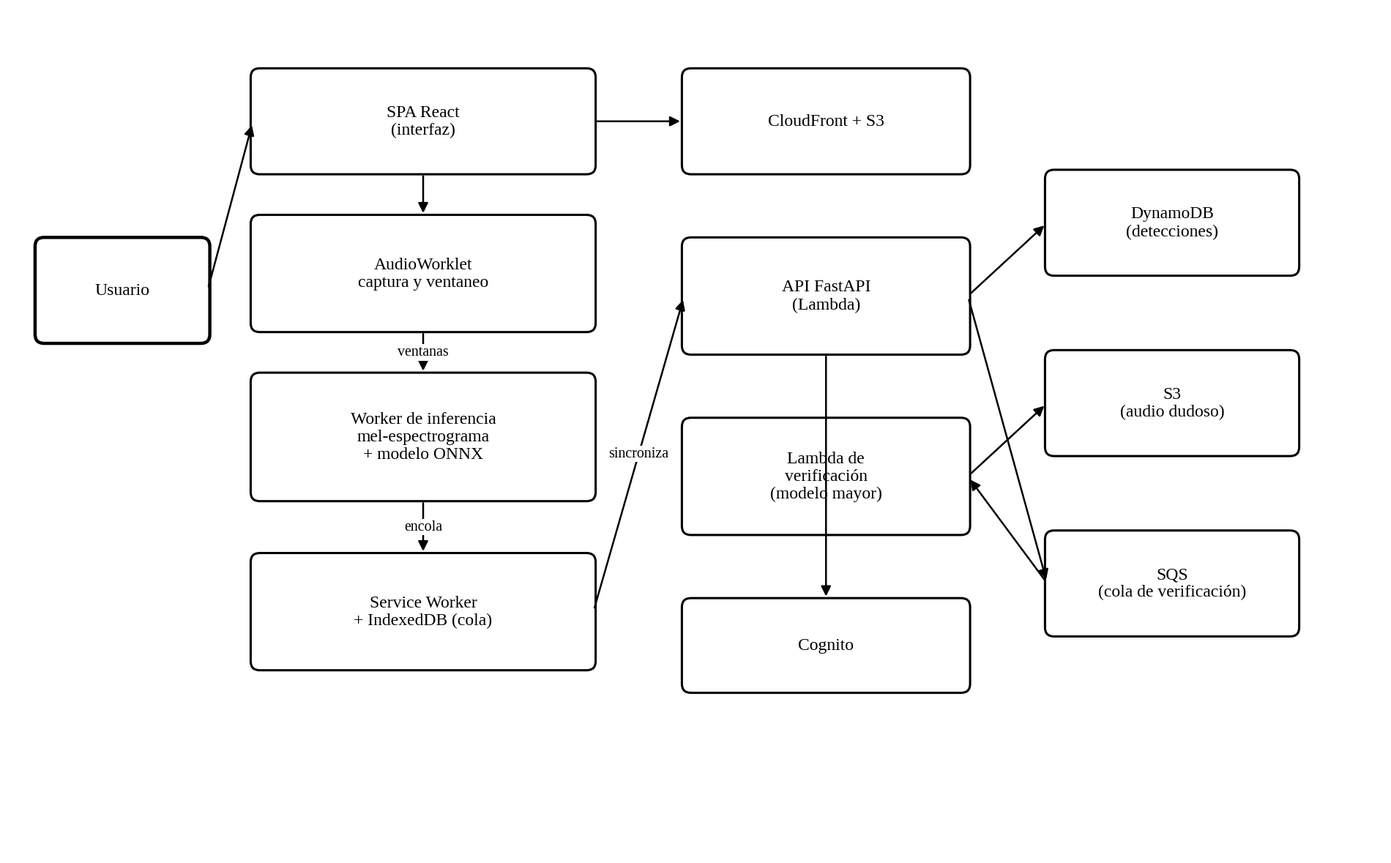
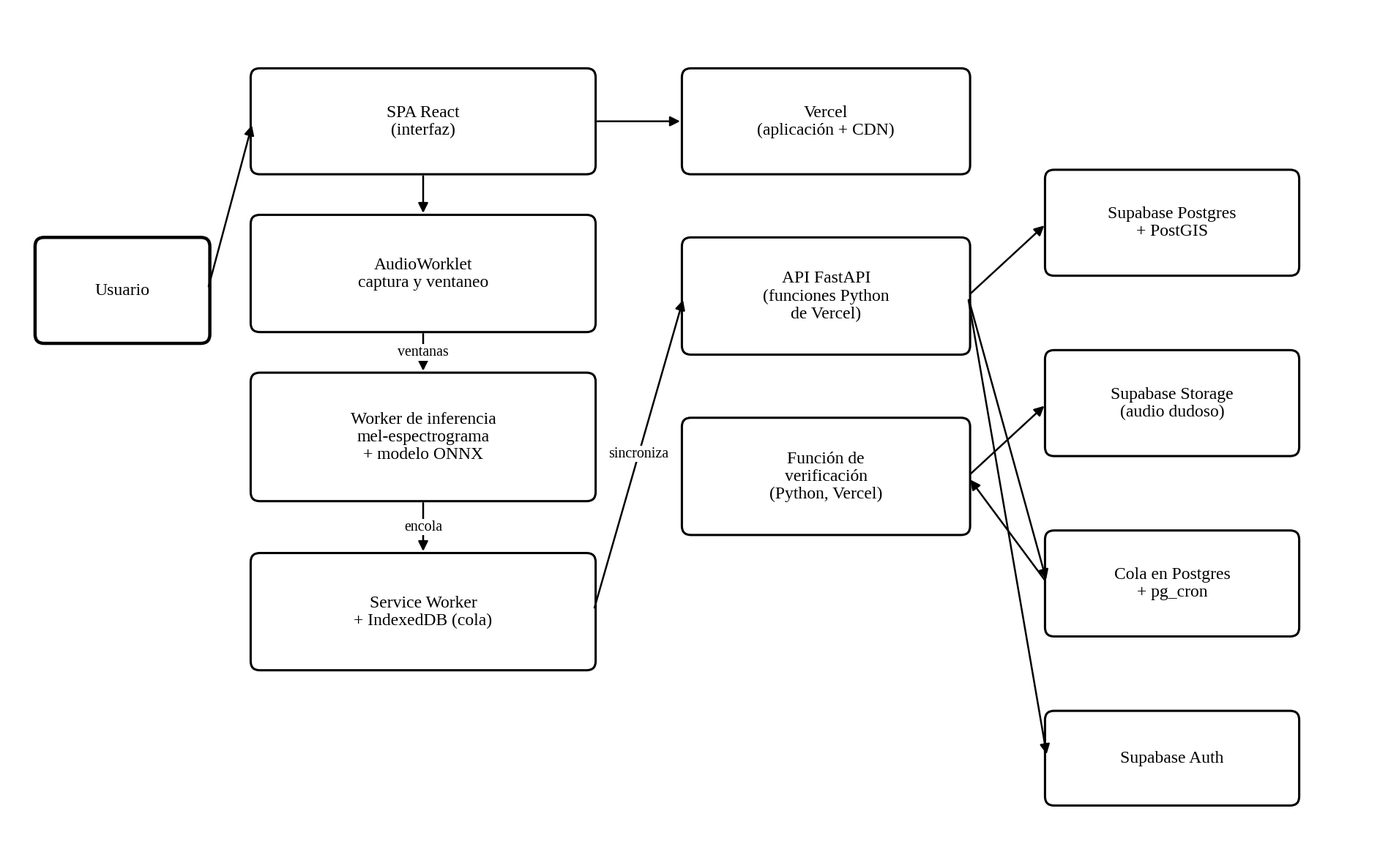
docs: actualizar definicion tecnica del proyecto e ignorados

diff --git a/docs/definicion-proyecto.md b/docs/definicion-proyecto.md
@@ -46,7 +46,7 @@ Diseñar y construir una aplicación web progresiva que identifique especies de 
 
 - Optimizar el consumo energético y de memoria hasta permitir sesiones de al menos una hora de escucha continua en un dispositivo de gama media.
 
-- Desplegar la solución sobre infraestructura sin servidor en AWS y verificar el cumplimiento de los requisitos no funcionales mediante pruebas automatizadas.
+- Desplegar la solución sobre plataformas con plan gratuito (Vercel y Supabase), manteniéndola portable a AWS, y verificar el cumplimiento de los requisitos no funcionales mediante pruebas automatizadas.
 
 # **Alcance y delimitación**
 
@@ -147,7 +147,7 @@ Dos exclusiones merecen justificación. La primera es el entrenamiento del model
 | RNF-09 | Precisión declarada         | Toda detección se acompaña de su confianza; ninguna se presenta como certeza.                         |
 | RNF-10 | Accesibilidad               | Nivel AA de las WCAG 2.1, con interfaz utilizable a plena luz solar y con una sola mano.              |
 | RNF-11 | Compatibilidad              | Chrome y Edge en Android y escritorio; Safari en iOS con las limitaciones documentadas.               |
-| RNF-12 | Costo                       | Menos de cinco dólares mensuales en condiciones académicas.                                           |
+| RNF-12 | Costo                       | Cero dólares, usando solo planes gratuitos que no exigen tarjeta de crédito.                          |
 
 # **Arquitectura de la solución**
 
@@ -183,16 +183,16 @@ La ventaja de este esquema es doble. Por un lado, el volumen de datos transmitid
 
 *Responsabilidad de cada contenedor*
 
-| **Contenedor**             | **Responsabilidad**                                                | **Tecnología**                              |
-|----------------------------|--------------------------------------------------------------------|---------------------------------------------|
-| Aplicación de página única | Interfaz, mapa y coordinación de la sesión de escucha.             | React 19, TypeScript, Vite, MapLibre        |
-| Captura de audio           | Segmentar la señal en ventanas y entregarlas sin pérdidas.         | AudioWorklet, Web Audio API                 |
-| Hilo de inferencia         | Calcular el mel-espectrograma y ejecutar el modelo.                | Web Worker, ONNX Runtime Web, WebGPU o WASM |
-| Trabajador de servicio     | Funcionamiento sin conexión, cola y sincronización diferida.       | Workbox, IndexedDB, Background Sync         |
-| Interfaz de programación   | Recibir detecciones, servir consultas y coordinar la verificación. | FastAPI sobre AWS Lambda                    |
-| Servicio de verificación   | Ejecutar el modelo mayor sobre el audio dudoso.                    | AWS Lambda con contenedor y SQS             |
-| Almacén de detecciones     | Persistir las detecciones y su estado de verificación.             | Amazon DynamoDB                             |
-| Almacén de audio           | Conservar temporalmente los fragmentos pendientes de verificar.    | Amazon S3 con expiración automática         |
+| **Contenedor**             | **Responsabilidad**                                                | **Tecnología**                                         |
+|----------------------------|--------------------------------------------------------------------|--------------------------------------------------------|
+| Aplicación de página única | Interfaz, mapa y coordinación de la sesión de escucha.             | React 19, TypeScript, Vite, MapLibre                   |
+| Captura de audio           | Segmentar la señal en ventanas y entregarlas sin pérdidas.         | AudioWorklet, Web Audio API                            |
+| Hilo de inferencia         | Calcular el mel-espectrograma y ejecutar el modelo.                | Web Worker, ONNX Runtime Web, WebGPU o WASM            |
+| Trabajador de servicio     | Funcionamiento sin conexión, cola y sincronización diferida.       | Workbox, IndexedDB, Background Sync                    |
+| Interfaz de programación   | Recibir detecciones, servir consultas y coordinar la verificación. | FastAPI en funciones Python de Vercel                  |
+| Servicio de verificación   | Ejecutar el modelo mayor sobre el audio dudoso.                    | Función Python de Vercel, cola en PostgreSQL y pg_cron |
+| Almacén de detecciones     | Persistir las detecciones y su estado de verificación.             | Supabase PostgreSQL con PostGIS                        |
+| Almacén de audio           | Conservar temporalmente los fragmentos pendientes de verificar.    | Supabase Storage con limpieza programada               |
 
 ## **Cadena de procesamiento y política de decisión**
 
@@ -277,13 +277,24 @@ Conviene subrayar una consecuencia de esta política que no es evidente a primer
 | Alternativas  | Empaquetar el modelo dentro del paquete de la aplicación.                                                                                                                             |
 | Consecuencias | El modelo se actualiza sin redesplegar el cliente y la primera carga es más ligera. Se debe gestionar, en contrapartida, la compatibilidad entre versiones de modelo y de aplicación. |
 
+**Tabla 13**
+
+*ADR-06. Desplegar sobre plataformas gratuitas con portabilidad a AWS*
+
+| **Campo**     | **Contenido**                                                                                                                                                                                                                                                               |
+|---------------|-----------------------------------------------------------------------------------------------------------------------------------------------------------------------------------------------------------------------------------------------------------------------------|
+| Contexto      | El proyecto es académico, con tráfico intermitente y sin presupuesto; no es posible registrar un medio de pago.                                                                                                                                                             |
+| Decisión      | Aplicación y API en Vercel; identidad, base de datos PostgreSQL y archivos en Supabase. El diseño se mantiene portable a AWS.                                                                                                                                               |
+| Alternativas  | Arquitectura sin servidor en AWS; servidor propio con contenedores.                                                                                                                                                                                                         |
+| Consecuencias | Costo cero y sin servidores que administrar. A cambio se aceptan los límites de los planes gratuitos —pausa por inactividad, tamaño de base de datos, cuerpo máximo de 4,5 MB— y el riesgo de que sus condiciones cambien, mitigado con la equivalencia documentada en AWS. |
+
 # **Modelo de concurrencia y rendimiento**
 
 El reto de concurrencia de este proyecto es distinto al de los anteriores: aquí no se trata de una única tarea pesada ocasional, sino de un **flujo sostenido de trabajo periódico** que debe mantenerse durante una hora sin perder una sola ventana de audio y sin agotar la batería.
 
 ## **Distribución del trabajo entre contextos de ejecución**
 
-**Tabla 13**
+**Tabla 14**
 
 *Asignación de cada tarea a su contexto de ejecución*
 
@@ -323,7 +334,9 @@ La restricción regional del catálogo merece un comentario, pues no es un simpl
 
 ## **Modelo de verificación en la nube**
 
-Las detecciones de confianza intermedia se procesan con la versión del modelo en precisión completa, ejecutada en una función Lambda empaquetada como contenedor y alimentada por una cola de mensajes. El procesamiento por lotes resulta aquí apropiado, dado que la verificación es diferida por naturaleza y no requiere respuesta inmediata.
+Las detecciones de confianza intermedia se procesan con la versión del modelo en precisión completa, ejecutada con ONNX Runtime sobre procesador en una función Python de Vercel. El plan gratuito ofrece hasta 2 GB de memoria y cinco minutos por invocación, suficientes para un modelo de este tamaño si los trabajos se procesan en lotes pequeños. El procesamiento diferido resulta apropiado, dado que la verificación no requiere respuesta inmediata.
+
+Se consideró alojar este modelo en un espacio de Hugging Face, pero entre julio y agosto de 2026 esa plataforma dejó de ofrecer gratuitamente los espacios con contenedores a cuentas nuevas, por lo que se descartó.
 
 ## **Modelo de lenguaje**
 
@@ -333,82 +346,130 @@ Rigen dos restricciones. El modelo **no identifica especies**: jamás recibe aud
 
 # **Modelo de datos y diseño de la interfaz de programación**
 
-**Tabla 14**
-
-*Diseño de claves de la tabla única*
-
-| **Entidad**           | **Clave de partición** | **Clave de ordenación** | **Atributos principales**                               |
-|-----------------------|------------------------|-------------------------|---------------------------------------------------------|
-| Usuario               | USER#\<id\>            | PROFILE                 | alias, preferencias, región                             |
-| Detección             | GEO#\<celda\>          | TS#\<marca\>#\<ulid\>   | especie, confianza, estado, versión del modelo, usuario |
-| Detección por usuario | USER#\<id\>            | DET#\<marca\>           | referencia a la detección                               |
-| Sitio                 | USER#\<id\>            | SITE#\<id\>             | nombre, celda geográfica, fecha de creación             |
-| Resumen de sitio      | SITE#\<id\>            | STAT#\<mes\>            | especies distintas, conteos, índice de variación        |
-| Versión de modelo     | MODEL                  | VER#\<n\>               | ruta, tamaño, umbrales, métricas                        |
-
-*Nota.* La celda geográfica como clave de partición permite consultar de forma eficiente todas las detecciones de una zona, que es el patrón de acceso dominante del mapa.
+Los datos se guardan en PostgreSQL, provisto por Supabase, con la extensión PostGIS para datos geográficos. PostGIS permite guardar la ubicación como un punto y consultar con un índice espacial todas las detecciones dentro del área visible del mapa, que es el patrón de acceso dominante del sistema.
 
 **Tabla 15**
 
-*Puntos de acceso principales de la interfaz*
+*Tablas principales de la base de datos*
 
-| **Método y ruta**              | **Propósito**                                          | **Autenticación** |
-|--------------------------------|--------------------------------------------------------|-------------------|
-| POST /v1/detections/batch      | Enviar un lote de detecciones desde la cola local      | Requerida         |
-| POST /v1/detections/{id}/audio | Subir el fragmento de audio para verificación          | Requerida         |
-| GET /v1/detections             | Consultar detecciones por zona, especie y periodo      | Requerida         |
-| PATCH /v1/detections/{id}      | Confirmar, corregir o descartar una detección          | Requerida         |
-| GET /v1/sites/{id}/stats       | Obtener las estadísticas de un sitio                   | Requerida         |
-| POST /v1/species/{id}/card     | Generar la ficha divulgativa de una especie            | Requerida         |
-| GET /v1/model/latest           | Consultar la versión vigente del modelo y sus umbrales | Pública           |
-| GET /v1/export                 | Exportar detecciones en CSV                            | Requerida         |
-| GET /v1/health                 | Verificar el estado del servicio                       | Pública           |
+| **Tabla**          | **Clave y relaciones**                        | **Columnas principales**                                                                              |
+|--------------------|-----------------------------------------------|-------------------------------------------------------------------------------------------------------|
+| profiles           | id (= usuario de Supabase Auth)               | alias, preferencias, región                                                                           |
+| sites              | id; owner_id → profiles                       | nombre, centro (punto geográfico), fecha de creación                                                  |
+| detections         | id generado en el cliente; user_id → profiles | especie, confianza, estado, momento, ubicación redondeada (punto), versión del modelo, ruta del audio |
+| verification_jobs  | detection_id → detections                     | estado del trabajo, intentos, último error, fecha de creación                                         |
+| site_stats_monthly | vista materializada por sitio y mes           | especies distintas, conteos, variación respecto del mes anterior                                      |
+| model_versions     | versión                                       | ruta en Storage, tamaño, umbrales, métricas                                                           |
 
-El punto de envío por lotes merece detalle por ser el más delicado del sistema. Recibe un conjunto de detecciones, cada una con el identificador único generado en el cliente, y responde indicando cuáles fueron aceptadas y cuáles ya existían. Esta respuesta permite al cliente vaciar su cola con seguridad: un envío repetido por un corte de red no genera duplicados, porque el servidor reconoce los identificadores ya registrados. Esta propiedad, la idempotencia, es la que hace posible reintentar sin miedo, y constituye el fundamento de toda sincronización fiable.
+*Nota.* La tabla detections tiene un índice espacial sobre la ubicación y un índice por especie y fecha. La vista materializada se recalcula cada noche con pg_cron.
 
-# **Infraestructura, despliegue y operación**
+El estado de una detección toma uno de cinco valores: confirmada por el modelo local, provisional, verificada en la nube, corregida por el usuario o descartada. La seguridad a nivel de fila permite a cualquier usuario autenticado leer las detecciones —el mapa es colectivo— pero solo modificar las propias.
 
 **Tabla 16**
 
-*Servicios de AWS empleados y su función*
+*Puntos de acceso principales de la interfaz*
 
-| **Servicio**          | **Función en el sistema**                                                        | **Consideración de costo**                                   |
-|-----------------------|----------------------------------------------------------------------------------|--------------------------------------------------------------|
-| S3                    | Alojar la aplicación, las versiones del modelo y el audio pendiente de verificar | Capa gratuita; expiración automática del audio a los 30 días |
-| CloudFront            | Distribuir la aplicación y el modelo desde el borde de la red                    | Capa gratuita de 1 TB                                        |
-| API Gateway           | Exponer la interfaz y limitar la tasa de peticiones                              | Por millón de peticiones                                     |
-| Lambda                | Ejecutar la interfaz FastAPI                                                     | Un millón de invocaciones sin costo                          |
-| Lambda con contenedor | Ejecutar el modelo de verificación por lotes                                     | Invocación solo ante detecciones dudosas                     |
-| SQS                   | Encolar las verificaciones pendientes y amortiguar los picos                     | Capa gratuita de 1 millón                                    |
-| DynamoDB              | Persistir detecciones, sitios y estadísticas                                     | Modo bajo demanda                                            |
-| Cognito               | Autenticar usuarios                                                              | Gratuito en el rango previsto                                |
-| CloudWatch            | Trazas, métricas y alarmas                                                       | Capa gratuita                                                |
+| **Método y ruta**                  | **Propósito**                                                      | **Autenticación** |
+|------------------------------------|--------------------------------------------------------------------|-------------------|
+| POST /v1/detections/batch          | Enviar un lote de detecciones desde la cola local                  | Requerida         |
+| POST /v1/detections/{id}/audio-url | Obtener una URL firmada para subir el audio directamente a Storage | Requerida         |
+| GET /v1/detections                 | Consultar detecciones por zona, especie y periodo                  | Requerida         |
+| PATCH /v1/detections/{id}          | Confirmar, corregir o descartar una detección                      | Requerida         |
+| GET /v1/sites/{id}/stats           | Obtener las estadísticas de un sitio                               | Requerida         |
+| POST /v1/species/{id}/card         | Generar la ficha divulgativa de una especie                        | Requerida         |
+| GET /v1/model/latest               | Consultar la versión vigente del modelo y sus umbrales             | Pública           |
+| GET /v1/export                     | Exportar detecciones en CSV                                        | Requerida         |
+| GET /v1/health                     | Verificar el estado del servicio                                   | Pública           |
 
-El uso de una cola entre la interfaz y el servicio de verificación no responde a un afán de sofisticación. Cumple una función concreta: cuando varios usuarios sincronizan a la vez tras una jornada de campo, la cola absorbe el pico y permite que la verificación se procese a su propio ritmo, sin que la interfaz de programación tenga que esperar ni el usuario perciba demora alguna. Es, además, el punto donde resulta natural aplicar reintentos y una cola de mensajes fallidos.
+El punto de envío por lotes merece detalle por ser el más delicado del sistema. Recibe un conjunto de detecciones, cada una con el identificador único generado en el cliente, y responde indicando cuáles fueron aceptadas y cuáles ya existían. Esta respuesta permite al cliente vaciar su cola con seguridad: un envío repetido por un corte de red no genera duplicados, porque la inserción usa la cláusula ON CONFLICT DO NOTHING de PostgreSQL sobre el identificador generado en el cliente. Esta propiedad, la idempotencia, es la que hace posible reintentar sin miedo, y constituye el fundamento de toda sincronización fiable.
+
+# **Infraestructura, despliegue y operación**
+
+## **Plataforma de despliegue**
+
+El sistema se despliega sobre plataformas con **plan gratuito que no exigen tarjeta de crédito**: Vercel para la aplicación y la API, y Supabase para identidad, base de datos y archivos. La elección es viable precisamente por la arquitectura adoptada: como el cómputo intensivo ocurre en el navegador, al servidor solo le quedan tareas ligeras —autenticar, guardar datos y llamar al modelo de lenguaje— que caben holgadamente en los límites de esos planes.
+
+**Tabla 17**
+
+*Servicios empleados en la opción gratuita*
+
+| **Servicio**                   | **Función en el sistema**                                                                                                                 | **Límite del plan gratuito**                                                |
+|--------------------------------|-------------------------------------------------------------------------------------------------------------------------------------------|-----------------------------------------------------------------------------|
+| Vercel (plan Hobby)            | Alojar la aplicación, distribuirla desde su red de entrega y aplicar las cabeceras de seguridad y de aislamiento definidas en vercel.json | Gratuito para uso no comercial                                              |
+| Funciones Python de Vercel     | Ejecutar la API FastAPI como funciones sin servidor                                                                                       | Incluidas en el plan gratuito; hasta 2 GB de memoria y 300 s por invocación |
+| Supabase Auth                  | Registro, inicio de sesión y emisión de credenciales JWT                                                                                  | Hasta 50.000 usuarios activos mensuales                                     |
+| Supabase PostgreSQL            | Persistir los datos con seguridad a nivel de fila                                                                                         | Hasta 500 MB de base de datos                                               |
+| Supabase Storage               | Guardar archivos: informes y demás objetos binarios                                                                                       | Hasta 1 GB de almacenamiento                                                |
+| Variables de entorno de Vercel | Custodiar la clave de Gemini y la clave de servicio de Supabase, cifradas y solo accesibles desde el servidor                             | Sin costo                                                                   |
+| GitHub Actions                 | Integración continua y tareas programadas de mantenimiento                                                                                | Gratuito en repositorios públicos; 2.000 minutos mensuales en privados      |
+| Registros de Vercel y Sentry   | Trazas, errores y alertas                                                                                                                 | Planes gratuitos                                                            |
+| Supabase Storage (audio)       | Guardar los fragmentos de audio dudosos hasta su verificación y las versiones del modelo                                                  | Incluido en 1 GB                                                            |
+| pg_cron y pg_net (Supabase)    | Invocar la verificación cada cinco minutos, recalcular estadísticas y borrar audio vencido                                                | Incluidos en el plan gratuito                                               |
+| PostGIS (Supabase)             | Guardar ubicaciones y consultarlas por área                                                                                               | Incluido                                                                    |
+
+*Nota.* Límites vigentes a septiembre de 2026. Los planes gratuitos cambian con frecuencia, por lo que deben revisarse al iniciar la construcción.
+
+Tres restricciones de estos planes condicionan el diseño y conviene tenerlas presentes desde ahora. La primera es que el plan Hobby de Vercel admite solo uso no comercial, condición que un proyecto académico cumple. La segunda es que una función de Vercel no acepta cuerpos de petición mayores de 4,5 MB, de modo que los archivos voluminosos no pasan por la API: el cliente los sube directamente a Supabase Storage mediante una URL firmada que la API emite. La tercera es que Supabase **pausa los proyectos gratuitos tras una semana sin actividad**; para evitar que el sistema amanezca detenido el día de la sustentación, un flujo programado de GitHub Actions realiza una consulta ligera cada tres días.
+
+## **Estrategia de despliegue**
+
+Vercel se integra directamente con el repositorio de GitHub. Cada propuesta de cambio genera automáticamente un **despliegue de vista previa** con su propia dirección, que cumple la función de entorno de preproducción, y cada integración a la rama principal se publica en producción. El esquema de la base de datos se versiona en el mismo repositorio como migraciones SQL gestionadas con la interfaz de línea de comandos de Supabase, y las cabeceras de seguridad se declaran en vercel.json. De este modo toda la configuración queda descrita en archivos versionados, que es el propósito de la infraestructura como código.
+
+El proceso de integración continua, implementado con GitHub Actions, ejecuta en cada propuesta de cambio la verificación de tipos, el análisis estático, las pruebas unitarias del cliente y del servidor, la construcción de la aplicación, las pruebas de extremo a extremo sobre el despliegue de vista previa y la auditoría de rendimiento y accesibilidad. Una propuesta que no supere todas las etapas no puede integrarse.
+
+La cola de verificación merece detalle porque sustituye a un servicio de colas dedicado sin perder sus propiedades. Al sincronizar, la API inserta un trabajo pendiente por cada detección dudosa. Cada cinco minutos, pg_cron invoca mediante pg_net la función de verificación, que toma hasta diez trabajos con la cláusula FOR UPDATE SKIP LOCKED: si dos invocaciones coinciden, cada una bloquea filas distintas y ningún trabajo se procesa dos veces. Un trabajo que falla incrementa su contador de intentos y, tras tres fallos, queda marcado para revisión en lugar de reintentarse indefinidamente. Se trata del mismo problema de concurrencia que resuelven los Workers en el navegador, ahora del lado del servidor.
+
+El audio se sube directamente desde el cliente a Supabase Storage mediante una URL firmada, lo que evita el límite de 4,5 MB de las funciones de Vercel. Una tarea nocturna de pg_cron borra los fragmentos verificados hace más de treinta días, manteniendo el almacenamiento dentro del gigabyte del plan gratuito.
+
+## **Alternativa de despliegue en AWS**
+
+El diseño se mantiene **portable a Amazon Web Services** sin reescribir la aplicación, gracias a tres decisiones. La API es una aplicación ASGI estándar, que se ejecuta igual en una función de Vercel que en AWS Lambda mediante un adaptador. La API valida las credenciales JWT contra el conjunto de claves públicas del proveedor de identidad, de modo que Supabase Auth y Cognito resultan intercambiables cambiando una variable de configuración. Y los datos viven en PostgreSQL en ambos casos, por lo que el esquema y las migraciones no cambian.
+
+**Tabla 18**
+
+*Equivalencia entre la opción gratuita y AWS*
+
+| **Función**                 | **Opción gratuita (principal)**       | **Equivalente en AWS**                           |
+|-----------------------------|---------------------------------------|--------------------------------------------------|
+| Aplicación y red de entrega | Vercel                                | S3 + CloudFront                                  |
+| API FastAPI                 | Funciones Python de Vercel            | Lambda + API Gateway, con el adaptador Mangum    |
+| Identidad                   | Supabase Auth                         | Amazon Cognito                                   |
+| Base de datos               | Supabase PostgreSQL                   | Amazon RDS for PostgreSQL (mismo esquema)        |
+| Archivos                    | Supabase Storage                      | Amazon S3                                        |
+| Secretos                    | Variables de entorno de Vercel        | AWS Secrets Manager                              |
+| Cabeceras de seguridad      | vercel.json                           | Política de cabeceras de respuesta de CloudFront |
+| Observabilidad              | Registros de Vercel y Sentry          | Amazon CloudWatch                                |
+| Cola de verificación        | Tabla verification_jobs en PostgreSQL | Amazon SQS                                       |
+| Tareas programadas          | pg_cron                               | Amazon EventBridge Scheduler                     |
+| Función de verificación     | Función Python de Vercel              | Lambda con imagen de contenedor                  |
+
+La única pieza que requiere adaptación son las políticas de seguridad a nivel de fila, que en Supabase leen el usuario desde la credencial de la petición: en RDS se reescriben para leerlo de una variable de sesión que la API fija al abrir cada transacción. Cabe advertir, por último, que una cuenta de AWS exige registrar una tarjeta aunque se use su plan gratuito con créditos iniciales; por ello la opción de Vercel y Supabase se mantiene como la principal.
 
 # **Seguridad, privacidad y consideraciones éticas**
 
 Un sistema que mantiene un micrófono abierto y registra ubicaciones plantea riesgos de privacidad que exigen un tratamiento explícito.
 
-**Tabla 17**
+**Tabla 19**
 
 *Medidas de seguridad y privacidad*
 
-| **Amenaza o riesgo**                                 | **Medida adoptada**                                                                                                                                                   |
-|------------------------------------------------------|-----------------------------------------------------------------------------------------------------------------------------------------------------------------------|
-| Captura involuntaria de conversaciones               | El audio se procesa en el dispositivo y se descarta tras el análisis; solo persiste el de las detecciones dudosas, con aviso explícito y posibilidad de desactivarlo. |
-| Revelación del domicilio del usuario                 | Las coordenadas se redondean a una cuadrícula de unos cien metros antes de almacenarse.                                                                               |
-| Exposición de especies sensibles a la captura ilegal | La misma imprecisión geográfica protege la localización; las especies catalogadas como amenazadas pueden ocultarse del mapa público.                                  |
-| Envío de detecciones falsas o manipuladas            | Toda detección se asocia al usuario autenticado y conserva la versión del modelo que la produjo, lo que permite auditarla.                                            |
-| Duplicación o pérdida en la sincronización           | Identificadores generados en el cliente y operaciones idempotentes en el servidor.                                                                                    |
-| Acumulación indefinida de audio en la nube           | Expiración automática a los treinta días una vez verificado el fragmento.                                                                                             |
-| Interpretación de las detecciones como certezas      | La interfaz muestra siempre la confianza y el estado de verificación, y evita el lenguaje asertivo.                                                                   |
+| **Amenaza o riesgo**                                   | **Medida adoptada**                                                                                                                                                                    |
+|--------------------------------------------------------|----------------------------------------------------------------------------------------------------------------------------------------------------------------------------------------|
+| Captura involuntaria de conversaciones                 | El audio se procesa en el dispositivo y se descarta tras el análisis; solo persiste el de las detecciones dudosas, con aviso explícito y posibilidad de desactivarlo.                  |
+| Revelación del domicilio del usuario                   | Las coordenadas se redondean a una cuadrícula de unos cien metros antes de almacenarse.                                                                                                |
+| Exposición de especies sensibles a la captura ilegal   | La misma imprecisión geográfica protege la localización; las especies catalogadas como amenazadas pueden ocultarse del mapa público.                                                   |
+| Envío de detecciones falsas o manipuladas              | Toda detección se asocia al usuario autenticado y conserva la versión del modelo que la produjo; la seguridad a nivel de fila impide modificar detecciones ajenas.                     |
+| Uso indebido de la clave pública de Supabase           | La clave anónima solo es segura con seguridad a nivel de fila activa en todas las tablas, lo que se verifica con una prueba automatizada; la clave de servicio nunca llega al cliente. |
+| Invocación no autorizada de la función de verificación | Solo acepta llamadas que presenten un secreto compartido con pg_cron, guardado como variable de entorno.                                                                               |
+| Duplicación o pérdida en la sincronización             | Identificadores generados en el cliente y operaciones idempotentes en el servidor.                                                                                                     |
+| Acumulación indefinida de audio en la nube             | Borrado programado a los treinta días de verificado el fragmento.                                                                                                                      |
+| Interpretación de las detecciones como certezas        | La interfaz muestra siempre la confianza y el estado de verificación, y evita el lenguaje asertivo.                                                                                    |
 
 Hay además una consideración ética propia de este dominio. Un conjunto de datos de biodiversidad construido por voluntarios tiene un sesgo inevitable: refleja dónde hay personas con teléfonos, no dónde hay aves. La interfaz destinada a investigadores advierte de forma explícita de esta limitación, y los informes generados evitan presentar la ausencia de detecciones como ausencia de especies. Confundir ambas cosas sería el error interpretativo más probable y el de peores consecuencias.
 
 # **Estrategia de pruebas y calidad**
 
-**Tabla 18**
+**Tabla 20**
 
 *Niveles de prueba previstos*
 
@@ -427,23 +488,25 @@ La prueba de campo no puede automatizarse y, sin embargo, es la más informativa
 
 # **Riesgos y plan de mitigación**
 
-**Tabla 19**
+**Tabla 21**
 
 *Registro de riesgos del proyecto*
 
-| **Id** | **Riesgo**                                                             | **Prob.** | **Impacto** | **Mitigación**                                                                                                     |
-|--------|------------------------------------------------------------------------|-----------|-------------|--------------------------------------------------------------------------------------------------------------------|
-| R-01   | La inferencia resulta demasiado lenta en dispositivos de gama media    | Media     | Alto        | Medir en un dispositivo real desde la semana 3; cuantizar más y aumentar el intervalo entre ventanas si es preciso |
-| R-02   | La exportación del modelo a ONNX presenta incompatibilidades           | Media     | Alto        | Validar la exportación en la semana 2, antes de construir nada sobre ella                                          |
-| R-03   | El consumo de batería excede lo aceptable                              | Media     | Medio       | Ajustar el intervalo de análisis y suspender en segundo plano                                                      |
-| R-04   | El ruido ambiental degrada la precisión en entornos urbanos            | Alta      | Medio       | Filtrado previo, umbral de energía mínima y comunicación honesta de la confianza                                   |
-| R-05   | Limitaciones de Safari en iOS para audio y funcionamiento sin conexión | Media     | Medio       | Documentar el soporte por navegador y degradar con elegancia                                                       |
-| R-06   | El tamaño de descarga inicial desalienta el uso                        | Baja      | Medio       | Cuantización, compresión y descarga del modelo diferida al primer uso                                              |
-| R-07   | El alcance de tres proyectos simultáneos supera el tiempo disponible   | Alta      | Alto        | Plantilla común y funcionalidades de prioridad media y baja declaradas prescindibles                               |
+| **Id** | **Riesgo**                                                                                     | **Prob.** | **Impacto** | **Mitigación**                                                                                                     |
+|--------|------------------------------------------------------------------------------------------------|-----------|-------------|--------------------------------------------------------------------------------------------------------------------|
+| R-01   | La inferencia resulta demasiado lenta en dispositivos de gama media                            | Media     | Alto        | Medir en un dispositivo real desde la semana 3; cuantizar más y aumentar el intervalo entre ventanas si es preciso |
+| R-02   | La exportación del modelo a ONNX presenta incompatibilidades                                   | Media     | Alto        | Validar la exportación en la semana 2, antes de construir nada sobre ella                                          |
+| R-03   | El consumo de batería excede lo aceptable                                                      | Media     | Medio       | Ajustar el intervalo de análisis y suspender en segundo plano                                                      |
+| R-04   | El ruido ambiental degrada la precisión en entornos urbanos                                    | Alta      | Medio       | Filtrado previo, umbral de energía mínima y comunicación honesta de la confianza                                   |
+| R-05   | Limitaciones de Safari en iOS para audio y funcionamiento sin conexión                         | Media     | Medio       | Documentar el soporte por navegador y degradar con elegancia                                                       |
+| R-06   | El tamaño de descarga inicial desalienta el uso                                                | Baja      | Medio       | Cuantización, compresión y descarga del modelo diferida al primer uso                                              |
+| R-07   | El alcance de tres proyectos simultáneos supera el tiempo disponible                           | Alta      | Alto        | Plantilla común y funcionalidades de prioridad media y baja declaradas prescindibles                               |
+| R-08   | La función de verificación excede la memoria o el tiempo del plan gratuito                     | Baja      | Medio       | Lotes de diez trabajos, modelo cuantizado a 16 bits y medición en la semana 6                                      |
+| R-09   | Cambian las condiciones de un plan gratuito o el proyecto de Supabase se pausa por inactividad | Media     | Medio       | Consulta programada cada tres días, respaldos del esquema en el repositorio y equivalencia en AWS documentada      |
 
 # **Plan de trabajo**
 
-**Tabla 20**
+**Tabla 22**
 
 *Cronograma por sprints*
 
@@ -497,3 +560,9 @@ ONNX Runtime. (2026). *ONNX Runtime Web: Deploy models in the browser*. Microsof
 Richards, M., y Ford, N. (2020). *Fundamentals of software architecture: An engineering approach*. O'Reilly Media.
 
 Stowell, D. (2022). Computational bioacoustics with deep learning: A review and roadmap. *PeerJ*, 10, e13152. https://doi.org/10.7717/peerj.13152
+
+Supabase. (2026). *Row Level Security*. Supabase Docs. https://supabase.com/docs/guides/database/postgres/row-level-security
+
+Vercel. (2026). *Deploy a FastAPI app on Vercel*. Vercel Docs. https://vercel.com/docs/frameworks/backend/fastapi
+
+Vercel. (2026). *Vercel Functions limits*. Vercel Docs. https://vercel.com/docs/functions/limitations
